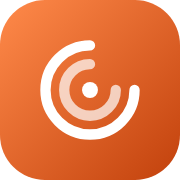
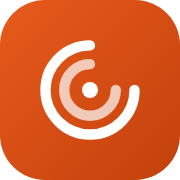
landing page updated

diff --git a/templates/landing.html b/templates/landing.html
@@ -172,6 +172,8 @@
             --accent-2: #e85a1c;
             --brand-gradient: linear-gradient(135deg, #ffa066 0%, #e85a1c 100%);
             --brand-gradient-strong: linear-gradient(135deg, var(--accent), var(--accent-2));
+            /* Logo tile: ends on the solid button colour (--brand-strong) */
+            --brand-logo-gradient: linear-gradient(135deg, var(--brand), var(--brand-strong));
             --check: #059669;
             --ink: #111827;
             --ink-2: #374151;
@@ -220,7 +222,7 @@
         .app-header { position: sticky; top: 0; z-index: 50; height: var(--header-h); display: grid; grid-template-columns: 1fr auto 1fr; align-items: center; gap: 1rem; padding: 0 var(--edge); background: rgba(255, 255, 255, 0.82); backdrop-filter: saturate(160%) blur(12px); -webkit-backdrop-filter: saturate(160%) blur(12px); border-bottom: 1px solid transparent; transition: border-color 0.2s ease, background 0.2s ease; }
         .app-header.is-scrolled { border-bottom-color: var(--line); background: rgba(255, 255, 255, 0.9); }
         .header-brand { display: flex; align-items: center; gap: 10px; text-decoration: none; color: var(--ink); }
-        .brand-logo { width: 38px; height: 38px; border-radius: 11px; background: var(--brand-gradient-strong); display: flex; align-items: center; justify-content: center; box-shadow: 0 6px 14px rgba(var(--brand-rgb), 0.3); flex-shrink: 0; }
+        .brand-logo { width: 38px; height: 38px; border-radius: 11px; background: var(--brand-logo-gradient); display: flex; align-items: center; justify-content: center; box-shadow: 0 6px 14px rgba(var(--brand-rgb), 0.3); flex-shrink: 0; }
         .brand-name { display: block; font-weight: 800; font-size: 1.05rem; letter-spacing: -0.01em; line-height: 1.1; }
         .brand-tagline { display: block; font-size: 0.68rem; font-weight: 600; letter-spacing: 0.06em; text-transform: uppercase; color: var(--muted); margin-top: 2px; }
         .beta-badge { display: inline-block; margin-left: 6px; padding: 1px 7px; font-size: 10px; font-weight: 700; letter-spacing: .06em; text-transform: uppercase; line-height: 1.5; vertical-align: middle; color: var(--ink-2); background: var(--soft); border: 1px solid var(--line); border-radius: 999px; }

diff --git a/static/css/style.css b/static/css/style.css
@@ -27,11 +27,11 @@
   --accent-2:       #e85a1c;
   /* Decorative (no text on it) / buttons and tiles */
   --brand-gradient:        linear-gradient(135deg, #ffa066 0%, #e85a1c 100%);
-  /* Icon circles, avatars and mock tiles: dark slate. The logo keeps the
-     orange pair via --brand-logo-gradient; main buttons are solid
-     --brand-strong (see BRAND BUTTONS). */
+  /* Icon circles, avatars and mock tiles: dark slate. The logo is orange via
+     --brand-logo-gradient, ending on the same --brand-strong as the solid
+     main buttons (see BRAND BUTTONS) so the two read as one colour. */
   --brand-gradient-strong: linear-gradient(135deg, #334155, #0f172a);
-  --brand-logo-gradient:   linear-gradient(135deg, var(--accent), var(--accent-2));
+  --brand-logo-gradient:   linear-gradient(135deg, var(--brand), var(--brand-strong));
   --neutral-accent: #334155;
   --navy:       #0f172a;
   --navy-light: #1e293b;
@@ -1235,7 +1235,7 @@ body {
   width: 48px;
   height: 48px;
   border-radius: 14px;
-  background: var(--brand-gradient-strong);
+  background: var(--brand-logo-gradient);
   display: flex;
   align-items: center;
   justify-content: center;
